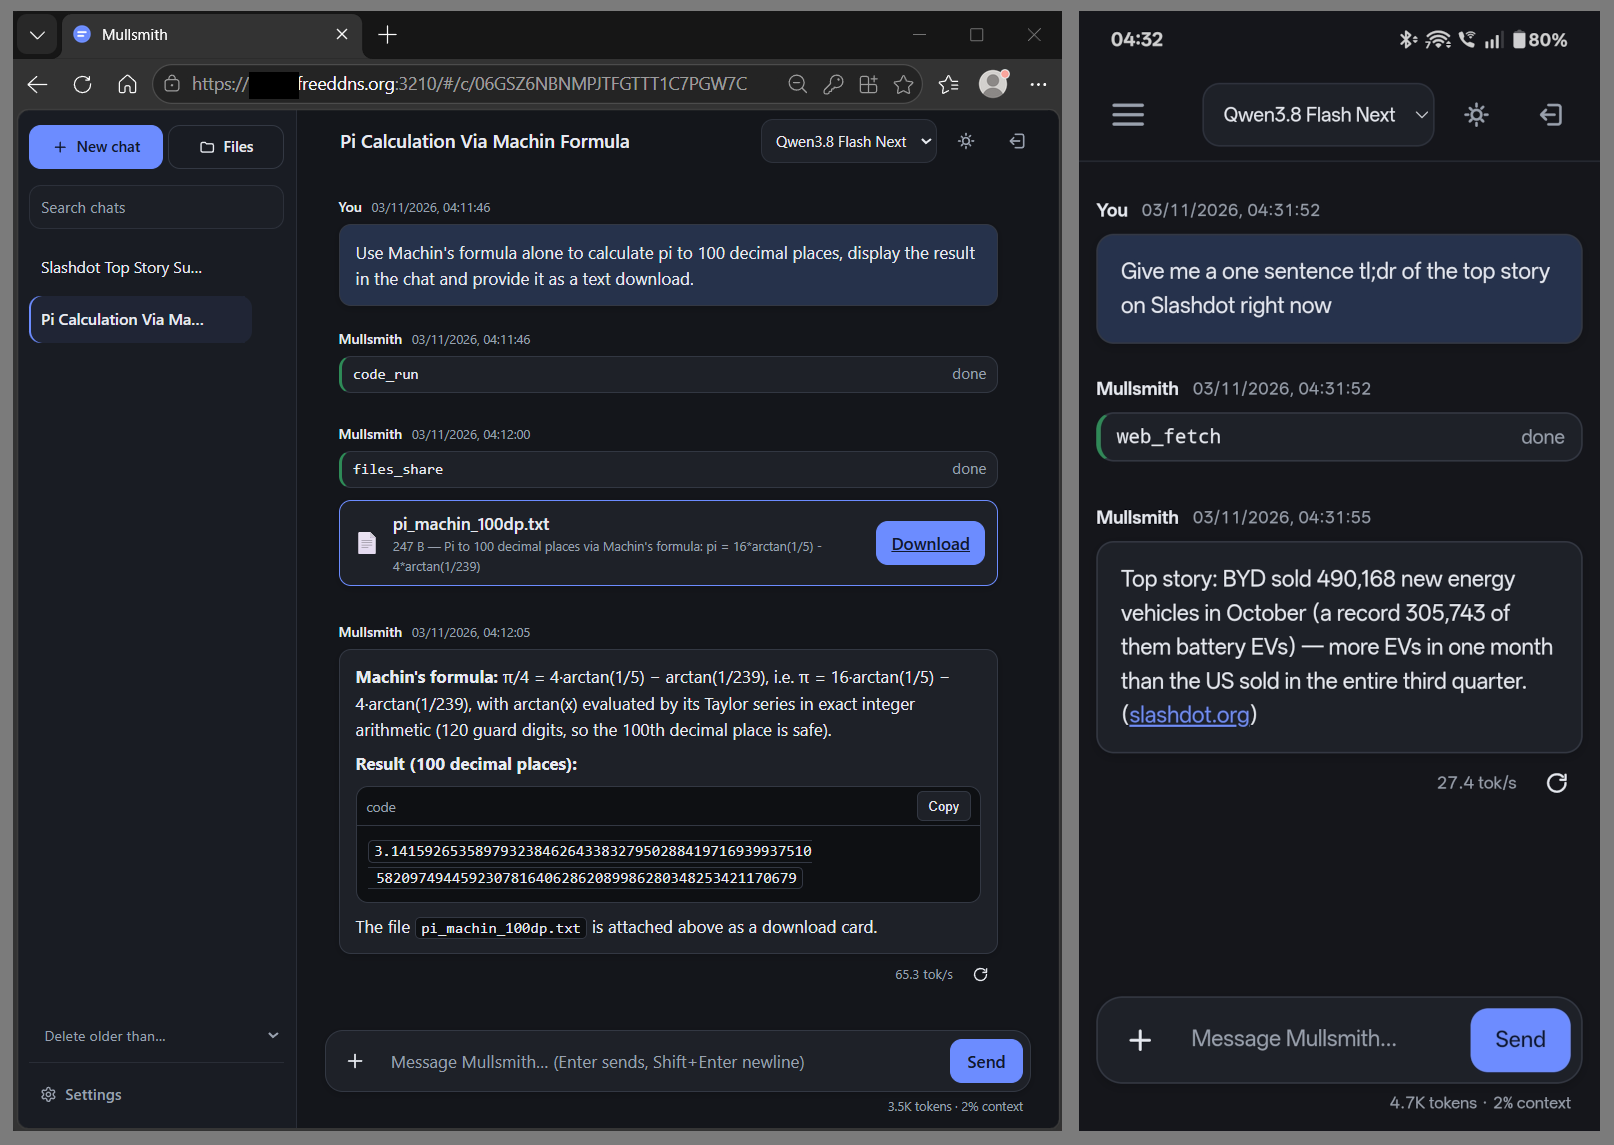
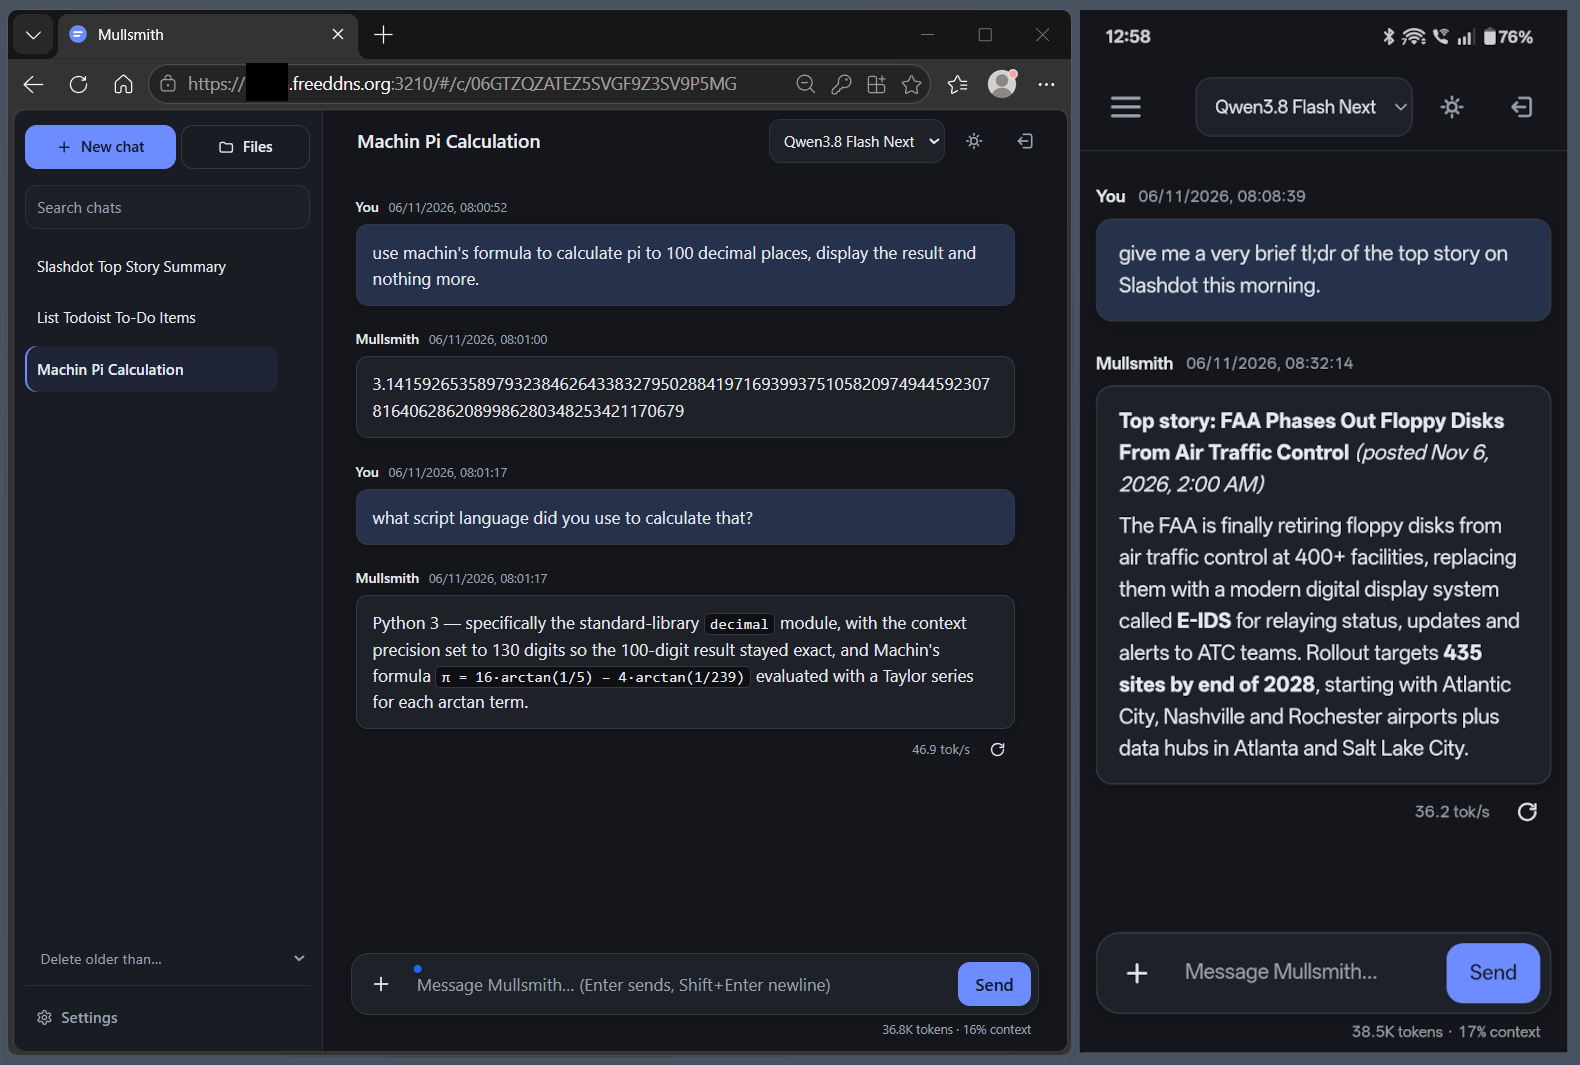
docs: add quick start and focus README on user benefits

diff --git a/README.md b/README.md
@@ -2,66 +2,63 @@
 
 [![CI](https://github.com/PhilAnderson1/Mullsmith/actions/workflows/ci.yml/badge.svg)](https://github.com/PhilAnderson1/Mullsmith/actions/workflows/ci.yml)
 
-**Your local AI assistant, on every device.**
+**Your AI assistant, from your browser.**
 
-A lightweight, self-hosted AI assistant for your model server, with a web
-interface, built-in web and file tools, and optional sandboxed code execution.
+Chat with your models, work with files and get help with tasks from your computer,
+tablet or phone. Run Mullsmith on a Linux computer or server, connect it to your
+model server or a supported hosted provider, and open it in your browser.
+
+Mullsmith provides the assistant and its tools; it does not download or run the
+language model itself.
 
 <p align="center">
   <img src="assets/mullsmith.png" alt="Mullsmith on desktop and phone, showing code execution, a downloadable file and web fetching" width="85%">
 </p>
 
-- **Small and self-contained.** Approximately 14 MiB. No Docker, Python, Node.js
-  or separate database required for the core application.
-- **Made for local models.** Connect to Gufo, llama.cpp, Ollama, vLLM or LM Studio—or
-  use OpenRouter—with supplied model-specific thinking controls.
-- **Useful tools included.** Search the web, work with files and download the results.
-- **Optional command and code execution.** Run shell commands and Python in a
-  resource-limited bubblewrap sandbox.
-- **Your data, on your server.** Accounts, conversation history and files stored
-  locally, with separate private storage for each user.
-- **Serve it directly.** Designed for your home network or the public internet,
-  with built-in HTTPS—no reverse proxy required.
-- **Use any device.** Responsive interface for desktop, tablet and phone.
-  Save it to your home screen as a web app.
-- **Free and open source.** No subscriptions, paid tiers or upselling.
+- **Easy setup with thinking controls built in.** Included catalogues cover
+  popular model servers and model-specific thinking settings, giving you
+  reasoning controls suited to your model. Extend the catalogues to support
+  new endpoints and models.
+- **Go beyond chat.** Work with files and images, search the web, and let the
+  assistant run code to calculate, process data and create downloadable results.
+  Optional code execution is isolated and has approval controls.
+- **Connect more tools and services.** Add local or remote MCP servers to extend
+  what your assistant can do. OAuth support lets each user connect their own
+  account to compatible services through Settings.
+- **Keep accounts and history on your server.** Access your chats from all your
+  devices. Mullsmith supports multiple user accounts.
+- **Responsive page design.** Access Mullsmith from your PC, tablet or mobile
+  phone, or save it to your home screen as a web app.
+- **Keep setup simple.** Install a small, self-contained application, with no
+  separate database to manage. Built-in HTTPS supports access beyond your home
+  network when configured.
 
-## Install
+## Get started
 
-Download the appropriate `.deb` or `.rpm` package from
-[Releases](https://github.com/PhilAnderson1/Mullsmith/releases), then install:
+You need a Linux computer or server, administrator access to install Mullsmith,
+and a running model server or supported hosted provider. Have your model's API
+address, model ID and any required API key ready.
 
-```sh
-# Debian / Ubuntu
-sudo apt install ./mullsmith_*.deb
+**[Follow the Quick start](QUICKSTART.md)** to install Mullsmith, create your
+account, connect your model and get your first reply.
 
-# RPM-based systems
-sudo dnf install ./mullsmith-*.rpm
-```
+Mullsmith is intended for you and people you trust. For access over the internet,
+follow the [HTTPS setup](GUIDE.md#internet-access-and-https) and keep registration
+invite-only or closed.
 
-Mullsmith starts automatically with invite-only registration. Manually create your
-first account, substituting your email, name and password:
-
-```sh
-sudo mullsmith admin create-user -email you@example.org -name 'Your name' -password 'password at least 10 characters'
-```
-
-**Open `http://YOUR-SERVER-IP:3210` from any device on your network and log in to check the installation.**
-
-[Set your endpoint URL, endpoint type, API key if required, and model](GUIDE.md#models-and-thinking-controls)
-under `llm:` in `/etc/mullsmith/config.yaml`, then restart:
-
-```sh
-sudo systemctl restart mullsmith
-```
-
+Other installation options:
 [Tar installation](GUIDE.md#tar-archive) ·
-[Build from source](GUIDE.md#building-from-source) ·
-[Configuration reference](configs/config.yaml) ·
-[Internet access and HTTPS](GUIDE.md#internet-access-and-https) ·
-[Full guide](GUIDE.md)
+[Build from source](GUIDE.md#building-from-source)
 
-Requires a running model endpoint. Optional code execution requires bubblewrap;
-web search requires a Brave Search API key.
-Intended for trusted users. For internet access, enable HTTPS and use invite-only
-or closed registration.
+## Learn more
+
+- [Full guide](GUIDE.md) — setup, tools and everyday administration.
+- [Models and thinking controls](GUIDE.md#models-and-thinking-controls) — connect
+  your model and configure its capabilities.
+- [Enable tools](GUIDE.md#enable-tools) — set up web search, code execution and
+  connections to other tools.
+- [MCP servers and OAuth](GUIDE.md#mcp-tool-servers) — add tools and let users
+  connect their service accounts.
+- [Accounts and invitations](GUIDE.md#accounts-and-invitations) — give others access.
+- [Troubleshooting](GUIDE.md#troubleshooting) — help when something does not work.
+- [Configuration reference](configs/config.yaml) — detailed settings when you need them.

diff --git a/QUICKSTART.md b/QUICKSTART.md
@@ -1,0 +1,135 @@
+# Mullsmith quick start
+
+Install Mullsmith, connect your model and send your first message. This walkthrough
+is for using Mullsmith on a Linux computer or across a trusted home network.
+
+If someone has already set up Mullsmith for you, open the address they gave you
+and sign in with your account.
+
+## Before you start
+
+You will need:
+
+- A Linux computer with administrator (`sudo`) access.
+- A running model server, such as llama.cpp, Ollama or LM Studio, or access to a
+  supported hosted provider such as OpenRouter. Mullsmith does not download or run
+  the model itself.
+- Your model server's API address, the exact model ID it serves, and an API key
+  if it requires one.
+
+The model server must be reachable from the computer running Mullsmith. If you
+want to make Mullsmith accessible over the internet, follow the
+[HTTPS setup](GUIDE.md#internet-access-and-https) before doing so.
+
+## 1. Install Mullsmith
+
+Download the package for your distribution and machine from
+[Releases](https://github.com/PhilAnderson1/Mullsmith/releases). In the directory
+where you downloaded it, run the command for your distribution.
+
+**Debian or Ubuntu:**
+
+```sh
+sudo apt install ./mullsmith_*.deb
+```
+
+**RPM-based distributions:**
+
+```sh
+sudo dnf install ./mullsmith-*.rpm
+```
+
+Mullsmith starts automatically. For other installation methods, see
+[tar installation](GUIDE.md#tar-archive) or
+[building from source](GUIDE.md#building-from-source).
+
+## 2. Create your account
+
+Run this on the Mullsmith computer, replacing the example email, name and password
+with your own. Choose a password of at least 10 characters.
+
+```sh
+sudo mullsmith admin create-user -email you@example.org -name 'Your name' -password 'your chosen password'
+```
+
+The default installation uses invite-only registration. This command creates your
+account directly; you do not need an invitation or email setup.
+
+## 3. Connect your model
+
+Open `/etc/mullsmith/config.yaml` in a text editor with administrator access, for example:
+
+```sh
+sudo nano /etc/mullsmith/config.yaml
+```
+
+Find the existing `llm:` section. Update `endpoint`, `endpoint_type` and `api_key`
+to match your model server. Replace the example `models:` list with your model's
+details. This example connects to llama.cpp:
+
+```yaml
+llm:
+  endpoint: "http://127.0.0.1:9931/v1"
+  endpoint_type: "llama_cpp"
+  api_key: ""
+  models:
+    - id: "your-model-id"
+      default: true
+      thinking_profile: "none"
+      vision: false
+```
+
+Edit these entries within the existing section, keeping its other settings and
+the rest of the file. Do not add a second `llm:` section. Use spaces, not tabs.
+
+Replace `your-model-id` with the exact ID shown by your model server.
+`127.0.0.1` means the model server runs on the same computer as Mullsmith; use its
+network address if it runs elsewhere. Leave `api_key` empty only if no key is required.
+
+For other servers, use the address and endpoint type in the
+[model setup table](GUIDE.md#models-and-thinking-controls). That section also
+explains how to enable image input and model-specific thinking controls later.
+
+Save the file, then check your settings and connection:
+
+```sh
+sudo mullsmith -config /etc/mullsmith/config.yaml -check-config
+```
+
+Resolve any reported errors, then apply the settings:
+
+```sh
+sudo systemctl restart mullsmith
+```
+
+## 4. Send your first message
+
+1. On your computer, tablet or phone, open `http://YOUR-SERVER-IP:3210`, replacing
+   `YOUR-SERVER-IP` with the network IP address of the server running Mullsmith.
+   Your device should be on the same network. If you are browsing on the
+   Mullsmith server itself, you can use `http://localhost:3210` instead.
+2. Sign in with the email and password you created above.
+3. Start a new chat and send a simple message, such as “Give me three ideas for
+   a quick lunch.”
+
+When a reply appears and finishes, your basic setup is working. You can return
+to the conversation later from the conversation list.
+
+## If something does not work
+
+| Problem | What to try |
+|---|---|
+| The page will not open | Run `sudo systemctl status mullsmith`. Check the browser address and, when connecting from another device, that your firewall allows access to port 3210 from your network. |
+| You cannot sign in | Use the account created in step 2. Browser registration requires an invitation by default. |
+| The page opens but you get no reply | Check that your model server is running, then run the configuration check in step 3. Verify the API address, model ID and any required API key. |
+| Mullsmith will not restart after editing settings | Run the configuration check in step 3 and correct the reported errors. Check indentation and avoid duplicate sections. |
+
+For more help, see [troubleshooting](GUIDE.md#troubleshooting).
+
+## What next?
+
+- [Enable tools](GUIDE.md#enable-tools) for web search and other capabilities.
+- [Configure models and thinking controls](GUIDE.md#models-and-thinking-controls).
+- [Invite other users](GUIDE.md#accounts-and-invitations).
+- [Set up internet access with HTTPS](GUIDE.md#internet-access-and-https).
+- [Back up your data](GUIDE.md#backups-and-storage-locations).
